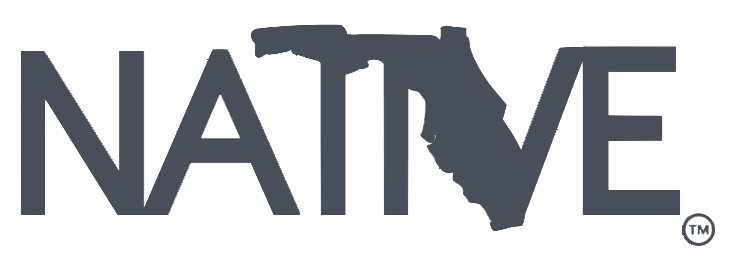
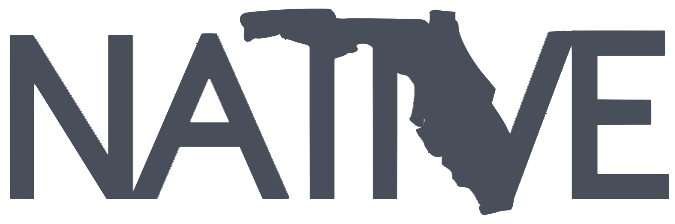
home page beginings

diff --git a/client/src/components/Nav/Nav.js b/client/src/components/Nav/Nav.js
@@ -4,15 +4,8 @@ import React from "react";
 const Nav = () => (
   <div>
     <nav>
-      <div className="nav-wrapper navBar">
-        <a href="/dashboard" className="brand-logo center"></a>
-        <ul id="nav-mobile" className="right hide-on-med-and-down">
-          <li><a href="/dashboard">Dashboard</a></li>
-          <li><a href="/guides">Guides</a></li>
-          <li><a href="/events">Events</a></li>
-          {/* <li><a href="/forum">Forum</a></li> */}
-          <li><a className="waves-effect waves-light btn" href="/logout">Log Out</a></li>
-        </ul>
+      <div className="nav-wrapper navBar logo">
+        <a href="/" className="brand-logo"><img className="logo" src="./images/NATIVE2.png"/></a>
         <ul id="nav-mobile" className="left hide-on-large-only">
           <li><a className="dropdown-trigger" href="#!" data-target="dropdown1"><i className="material-icons right">menu</i></a></li>
         </ul>

diff --git a/client/src/pages/Home/Home.js b/client/src/pages/Home/Home.js
@@ -1,11 +1,19 @@
 import React, { Component } from "react";
 import NavBar from "../../components/Nav"
+import NavBar2 from "../../components/Nav2"
+import {Carousel} from 'react-materialize'
 
 class Home extends Component {
   render() {
     return (
       <div className="landerPage">
       <NavBar />
+      <NavBar2 />
+      <Carousel options={{ fullWidth: true }} images={[
+        './images/placeholder1.jpeg',
+        './images/placeholder2.jpg',
+        './images/placeholder3.jpg',
+      ]} />
       </div>
     );
   }

diff --git a/client/src/components/Nav2/Nav2.js b/client/src/components/Nav2/Nav2.js
@@ -1,0 +1,17 @@
+import React from "react";
+
+
+const Nav2 = () => (
+  <div>
+      <div className="nav-wrapper navBar nav2">
+        <ul id="nav-mobile" className="center logo">
+          <li><a href="#">Shop</a></li>
+          <li><a href="#">About Us</a></li>
+          <li><a href="#">Contact Us</a></li>
+          <li><a href="#">FAQ</a></li>
+        </ul>
+      </div>
+  </div>
+);
+
+export default Nav2;

diff --git a/client/public/style.css b/client/public/style.css
@@ -1,0 +1,19 @@
+nav {
+    background-color: #ffffff00;
+    box-shadow: none;
+    height: 10rem;
+    padding-bottom: 0;
+}
+
+.nav2 {
+    height: 3rem !important;
+    color: rgb(72, 78, 90)
+}
+
+.logo {
+    height: 6rem;
+    display: flex;
+    flex-direction: row;
+    justify-content: center;
+    align-items: center;
+}

diff --git a/client/src/components/Nav2/index.js b/client/src/components/Nav2/index.js
@@ -1,0 +1,1 @@
+export { default } from "./Nav2";
